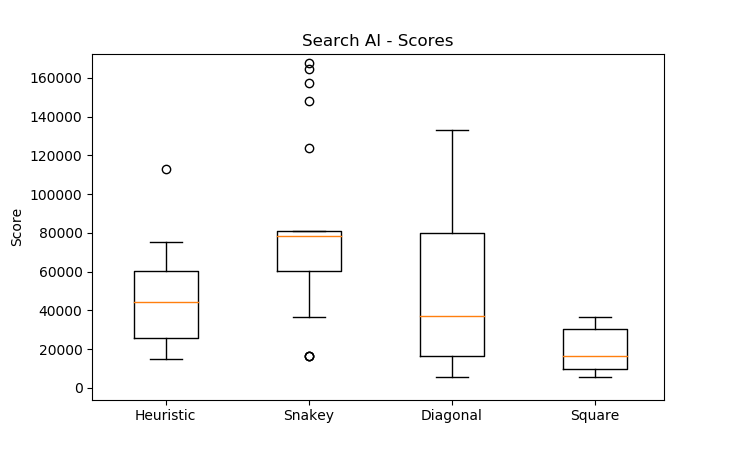
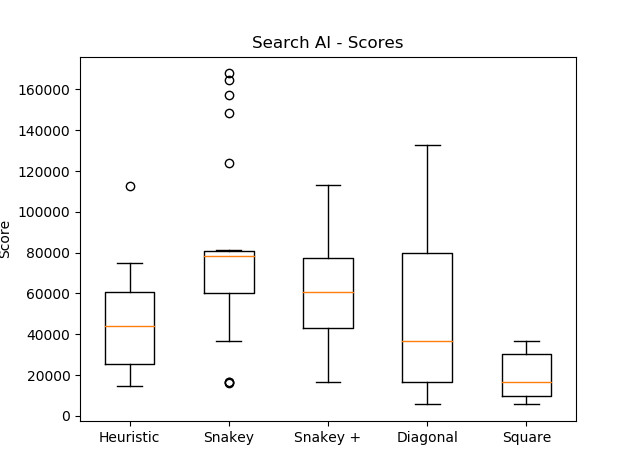
Added snakey+ to the table and statistics

diff --git a/2048-AI.html b/2048-AI.html
@@ -202,6 +202,13 @@
                 <td>0.58130573</td>
               </tr>
               <tr>
+                <td>Snakey+</td>
+                <td>113'180</td>
+                <td>68'555</td>
+                <td>8192</td>
+                <td>1.30097970</td>
+              </tr>
+              <tr>
                 <td>Diagonal</td>
                 <td>132'996</td>
                 <td>65'321</td>
